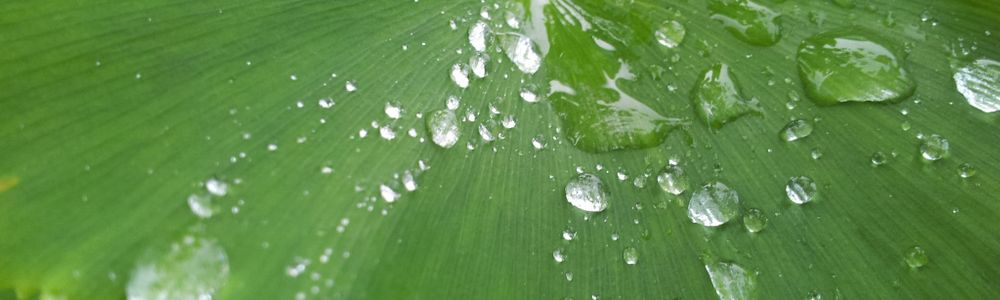
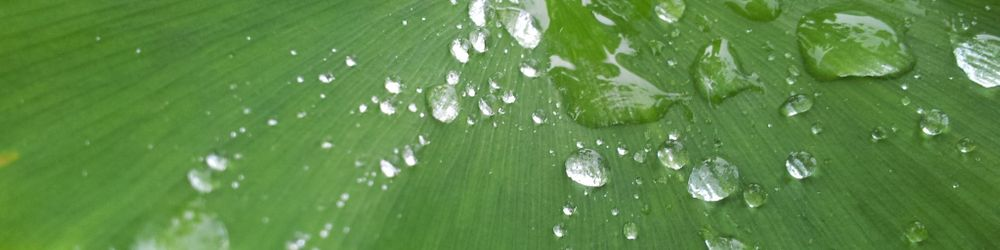
CSS overhaul v1

diff --git a/css/project.css b/css/project.css
@@ -1,4 +1,4 @@
-@import url('https://fonts.googleapis.com/css?family=Abel|Exo');
+@import url('https://fonts.googleapis.com/css?family=IBM+Plex+Sans');
 /* You must use a DIFFERENT FONT THAT THIS ONE as your webfont */
 
 /*************************************************
@@ -15,9 +15,16 @@
 }
 html{
     font-size: 16px;
-    font-family: Abel, Exo, 'Trebuchet MS', sans-serif;
+    font-family: 'IBM Plex Sans', 'Trebuchet MS', sans-serif;
     /* change this font stack to your own choices */
     line-height: 1.5;
+    max-width: 1500px;
+    margin: auto;
+    background-image: linear-gradient(rgb(255,255,255),rgb(80,80,80));
+}
+.container{
+    background: rgb(255,255,255);
+    border: 1px solid rgb(0,0,0);
 }
 p{
     
@@ -43,8 +50,11 @@ img{
 *************************************************/
 header{
     padding:1rem 2rem;
-    color: black;
-    background-image: url("img/img_1500.jpg");
+    color: rgb(0, 0, 0);
+
+    background-repeat: no-repeat;
+    background-color: rgb(90,90,90);
+    min-height: 300px;
 }
 header > h1{
     
@@ -61,19 +71,23 @@ nav{
 .mainnav{
     display: flex;
     flex-direction: row;
-    justify-content:space-around;
-    background-color: hsl(200,100%,20%);
+    align-items:center;
+    justify-content: space-around;
+    background-color: rgb(80, 80, 80);
+    border-style: solid;
+    border-width: 1px 0px 1px 0px;
 
 }
 nav > a,
 nav > a:visited,
 nav > a:link{
     font-variant: small-caps;
-    color: hsl(200,100%,100%);
+    color: rgb(255, 255, 255);
 }
 nav > a:active,
-nav > a:focus,x`
+nav > a:focus,
 nav > a:hover{
+    text-shadow: 0px 0px 10px rgb(0,0,0);
     
 }
 
@@ -82,10 +96,16 @@ nav > a:hover{
 *************************************************/
 main{
     padding:1rem 2rem;
+    display: grid;
+    grid-column-gap: 2rem;
+    grid-template-areas: "A A"
+                         "B C";
 }
 main h1, main h2{
-    padding: 1rem 0rem;
-    border-bottom: 1px dotted black;
+    padding: 1rem 0rem ;
+    border-bottom: 1px dotted rgb(0,0,0);
+    left: 50%;
+    
 }
 section{
     
@@ -97,7 +117,15 @@ section p{
 section p img{
     
 }
-
+.first.segment{
+    grid-area: A;
+}
+.second.segment.minor-segment{
+    grid-area: B;
+}
+.third.segment.minor-segment{
+    grid-area: C;
+}
 /*************************************************
             FOOTER
 *************************************************/
@@ -132,11 +160,50 @@ footer{
             MEDIA QUERIES for layout
 *************************************************/
 @media (max-width: 599px){
+
+    header{
+        min-height: 200px;
+        background-image: url(/img/img_600.jpg);
+    }
     
+    .mainnav{
+        display: flex;
+        flex-direction: column;
+        align-items:stretch;
+    }
+    .mainnav a{
+        border-bottom: 1px dotted rgb(255,255,255);
+    }
+    .mainnav a:hover{
+        font-size: 1.5rem;
+    }
+    main{
+        grid-template-areas: "A"
+                             "B"
+                             "C";
+    }
 }
 @media (min-width: 600px) and (max-width:999px){
-    
+    header{
+        min-height: 250px;
+        background-image: url(/img/img_1000.jpg);
+    }
+    .mainnav{
+        max-height:58px;
+    }
+    .mainnav a:hover{
+        font-size: 1.1rem;
+    }
 }
 @media (min-width: 1000px){
-    
+    header{
+        min-height: 300px;
+        background-image: url(/img/img_1500.jpg);
+    }
+    .mainnav{
+        max-height:58px;
+    }
+    .mainnav a:hover{
+        font-size: 1.1rem;
+    }
 }
